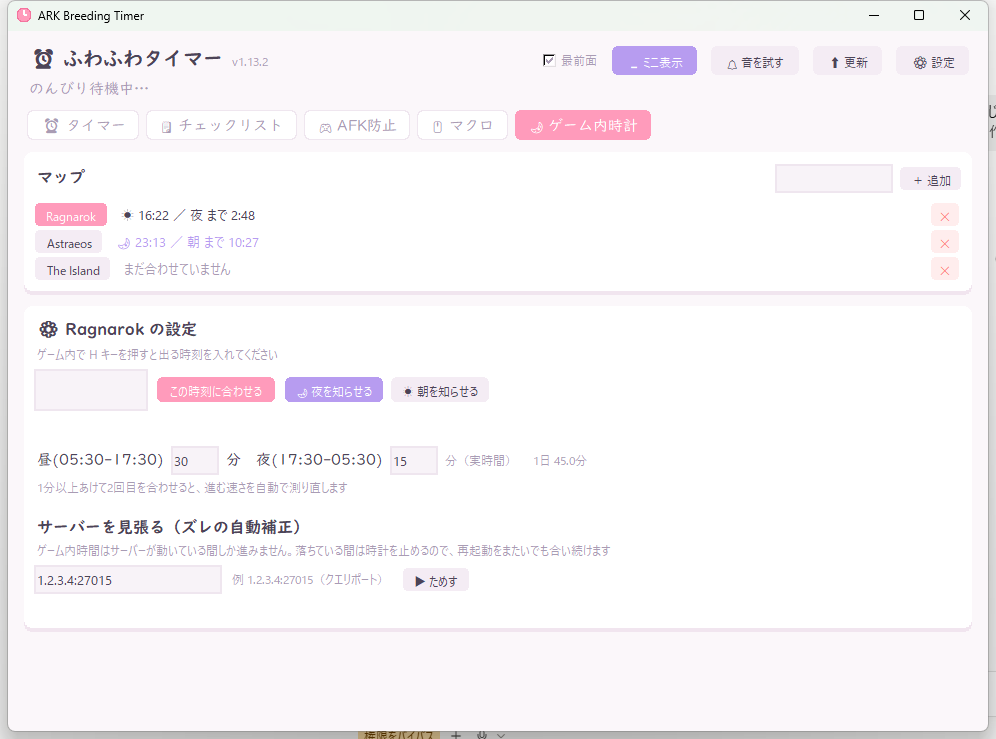
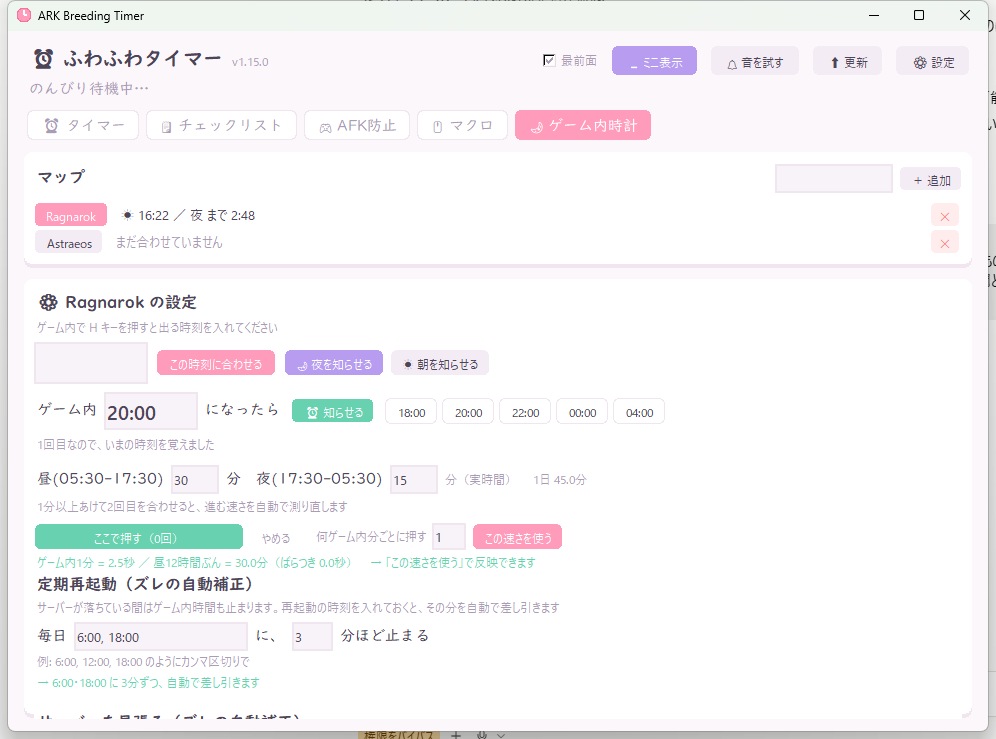
ゲーム内時計: タップで進む速さを実測できるように
ゲーム内の時計を見ながら分が変わるたびに押すと、押した間隔から
「ゲーム内1分 = 実何秒か」を割り出す。

- gametime.py に TapMeter を追加。押し間違い(押し忘れ)の影響を減らすため
  平均ではなく中央値を使う。step で「何ゲーム内分ごとに押すか」を変えられる
- 3回以上押すと結果が出て、「この速さを使う」で昼または夜の長さに反映する。
  測っているのが昼か夜かは、押しはじめた時点のゲーム内時刻で判定する
- ばらつき(最大-最小)も出すので、押し方が安定しているか分かる

修正:
- 挿入位置を誤って継続行の途中を割ってしまい構文が壊れたので直した

diff --git a/gametime_page.py b/gametime_page.py
@@ -31,6 +31,8 @@ class GameTimePage(tk.Frame):
         super().__init__(master, bg=th.BG)
         self.app = app
         self._loading = False
+        self.meter = None
+        self.meter_phase = None
         F = app.F
 
         # ---- 上: マップの一覧 ----
@@ -121,6 +123,27 @@ class GameTimePage(tk.Frame):
                  bg=th.CARD, fg=th.INK_SUB, font=F["small"]).pack(anchor="w",
                                                                   pady=(2, 0))
 
+        # ---- タップで実測 ----
+        mt = tk.Frame(c, bg=th.CARD)
+        mt.pack(fill="x", pady=(6, 0))
+        self.btn_meter = th.RoundButton(mt, "⏱ 実測する", self.meter_click,
+                                        kind="mint", bg=th.CARD, font=F["small"],
+                                        padx=14, pady=6, width=210)
+        self.btn_meter.pack(side="left")
+        self.btn_use = th.RoundButton(mt, "この速さを使う", self.meter_use,
+                                      kind="primary", bg=th.CARD, font=F["small"],
+                                      padx=12, pady=6)
+        th.RoundButton(mt, "やめる", self.meter_cancel, kind="ghost", bg=th.CARD,
+                       font=F["small"], padx=10, pady=6).pack(side="left", padx=6)
+        tk.Label(mt, text="何ゲーム内分ごとに押す", bg=th.CARD, fg=th.INK_SUB,
+                 font=F["small"]).pack(side="left", padx=(8, 2))
+        self.v_step = tk.StringVar(value="1")
+        th.soft_entry(mt, self.v_step, width=4).pack(side="left", ipady=2)
+        self.lbl_meter = tk.Label(c, text="", bg=th.CARD, fg=th.INK_SUB,
+                                  font=F["small"], anchor="w", justify="left",
+                                  wraplength=740)
+        self.lbl_meter.pack(fill="x", pady=(2, 0))
+
         tk.Label(c, text="定期再起動（ズレの自動補正）", bg=th.CARD, fg=th.INK,
                  font=F["cute_b"]).pack(anchor="w")
         tk.Label(c, text="サーバーが落ちている間はゲーム内時間も止まります。"
@@ -169,6 +192,76 @@ class GameTimePage(tk.Frame):
                   self.v_restarts, self.v_rmin):
             v.trace_add("write", lambda *a: self.save_fields())
         self.rebuild()
+
+
+    # ---------------- タップで速さを実測する ----------------
+    def meter_click(self):
+        """1回目で開始、2回目以降は「いま押した」として記録する。"""
+        c = self.app.clocks.get()
+        if c is None:
+            self.lbl_meter.config(text="⚠ さきにマップを追加してください",
+                                  fg=th.PINK_DK)
+            return
+        if self.meter is None:
+            try:
+                step = max(1, int(float(self.v_step.get() or 1)))
+            except ValueError:
+                step = 1
+            self.meter = G.TapMeter(step)
+            self.meter_phase = (G.is_night(c.game_at()) if c.synced else None)
+            self.btn_meter.set_text("ここで押す（0回）")
+            self.lbl_meter.config(
+                text="ゲーム内の時計を見ながら、%d分ごとに押してください。"
+                     "3回以上で結果が出ます" % step, fg=th.INK)
+            return
+        n = self.meter.tap()
+        self.btn_meter.set_text("ここで押す（%d回）" % n)
+        self._meter_report()
+
+    def _meter_report(self):
+        m = self.meter
+        per = m.per_game_minute()
+        if per is None:
+            self.lbl_meter.config(text="あと %d回 押すと結果が出ます" % (2 - len(m.taps)),
+                                  fg=th.INK)
+            return
+        half = m.half_day_real() / 60.0
+        sp = m.spread()
+        phase = "夜" if self.meter_phase else "昼"
+        msg = ("ゲーム内1分 = %.1f秒 ／ %s12時間ぶん = %.1f分" % (per, phase, half))
+        if sp is not None:
+            msg += "（ばらつき %.1f秒）" % sp
+        if m.count >= 3:
+            msg += "　→ 「この速さを使う」で反映できます"
+            self.btn_use.pack(side="left", padx=6)
+        self.lbl_meter.config(text=msg, fg=th.MINT if m.count >= 3 else th.INK)
+
+    def meter_use(self):
+        c = self.app.clocks.get()
+        m = self.meter
+        if c is None or m is None or m.half_day_real() is None:
+            return
+        half_min = m.half_day_real() / 60.0
+        self._loading = True
+        try:
+            if self.meter_phase:
+                self.v_night.set("%g" % round(half_min, 1))
+            else:
+                self.v_day.set("%g" % round(half_min, 1))
+        finally:
+            self._loading = False
+        self.save_fields()
+        which = "夜" if self.meter_phase else "昼"
+        self.meter_cancel()
+        self.lbl_meter.config(text="✅ %sの長さを %.1f分にしました" % (which, half_min),
+                              fg=th.MINT)
+
+    def meter_cancel(self):
+        self.meter = None
+        self.meter_phase = None
+        self.btn_meter.set_text("⏱ 実測する")
+        self.btn_use.pack_forget()
+        self.lbl_meter.config(text="", fg=th.INK_SUB)
 
     # ---------------- マップ一覧 ----------------
     def rebuild(self):

diff --git a/gametime.py b/gametime.py
@@ -324,3 +324,57 @@ def _restart_occurrences(times, now, back_days=2):
         for day in range(-back_days, 1):
             out.append(midnight + day * DAY_SECONDS + sec)
     return sorted(out)
+
+
+class TapMeter:
+    """ゲーム内時計の進む速さを、押した間隔から実測する。
+
+    使いかた: ゲーム内の時刻表示を見ながら、分が変わるたびに tap() を呼ぶ。
+    数回ぶん貯まれば「ゲーム内1分あたり実何秒か」が出る。
+
+    step は「何ゲーム内分ごとに押すか」。1分ごとが押しやすいが、
+    10分ごとにすればもっと正確になる。
+    """
+
+    def __init__(self, step=1):
+        self.step = max(1, int(step))
+        self.taps = []
+
+    def tap(self, now=None):
+        self.taps.append(now if now is not None else time.time())
+        return len(self.taps)
+
+    def reset(self):
+        self.taps = []
+
+    @property
+    def intervals(self):
+        return [b - a for a, b in zip(self.taps, self.taps[1:])]
+
+    @property
+    def count(self):
+        """使える間隔の数（押した回数 - 1）。"""
+        return max(0, len(self.taps) - 1)
+
+    def per_game_minute(self):
+        """ゲーム内1分あたりの実秒。まだ測れないなら None。
+
+        押し間違いの影響を減らすため、3つ以上あるときは中央値を使う。
+        """
+        iv = self.intervals
+        if not iv:
+            return None
+        iv = sorted(iv)
+        n = len(iv)
+        mid = iv[n // 2] if n % 2 else (iv[n // 2 - 1] + iv[n // 2]) / 2
+        return mid / self.step
+
+    def spread(self):
+        """間隔のばらつき（最大と最小の差、秒）。押し方の安定を見る目安。"""
+        iv = self.intervals
+        return (max(iv) - min(iv)) if len(iv) >= 2 else None
+
+    def half_day_real(self):
+        """この速さでの「ゲーム内12時間」にかかる実秒。"""
+        p = self.per_game_minute()
+        return None if p is None else p * 720      # 12時間 = 720ゲーム内分

diff --git a/ark_breeding_timer.py b/ark_breeding_timer.py
@@ -39,7 +39,7 @@ from gametime_page import GameTimePage
 from macro_page import MacroPage
 
 APP_NAME = "ARK Breeding Timer"
-APP_VERSION = "1.15.0"
+APP_VERSION = "1.16.0"
 
 
 def _res_dir():
